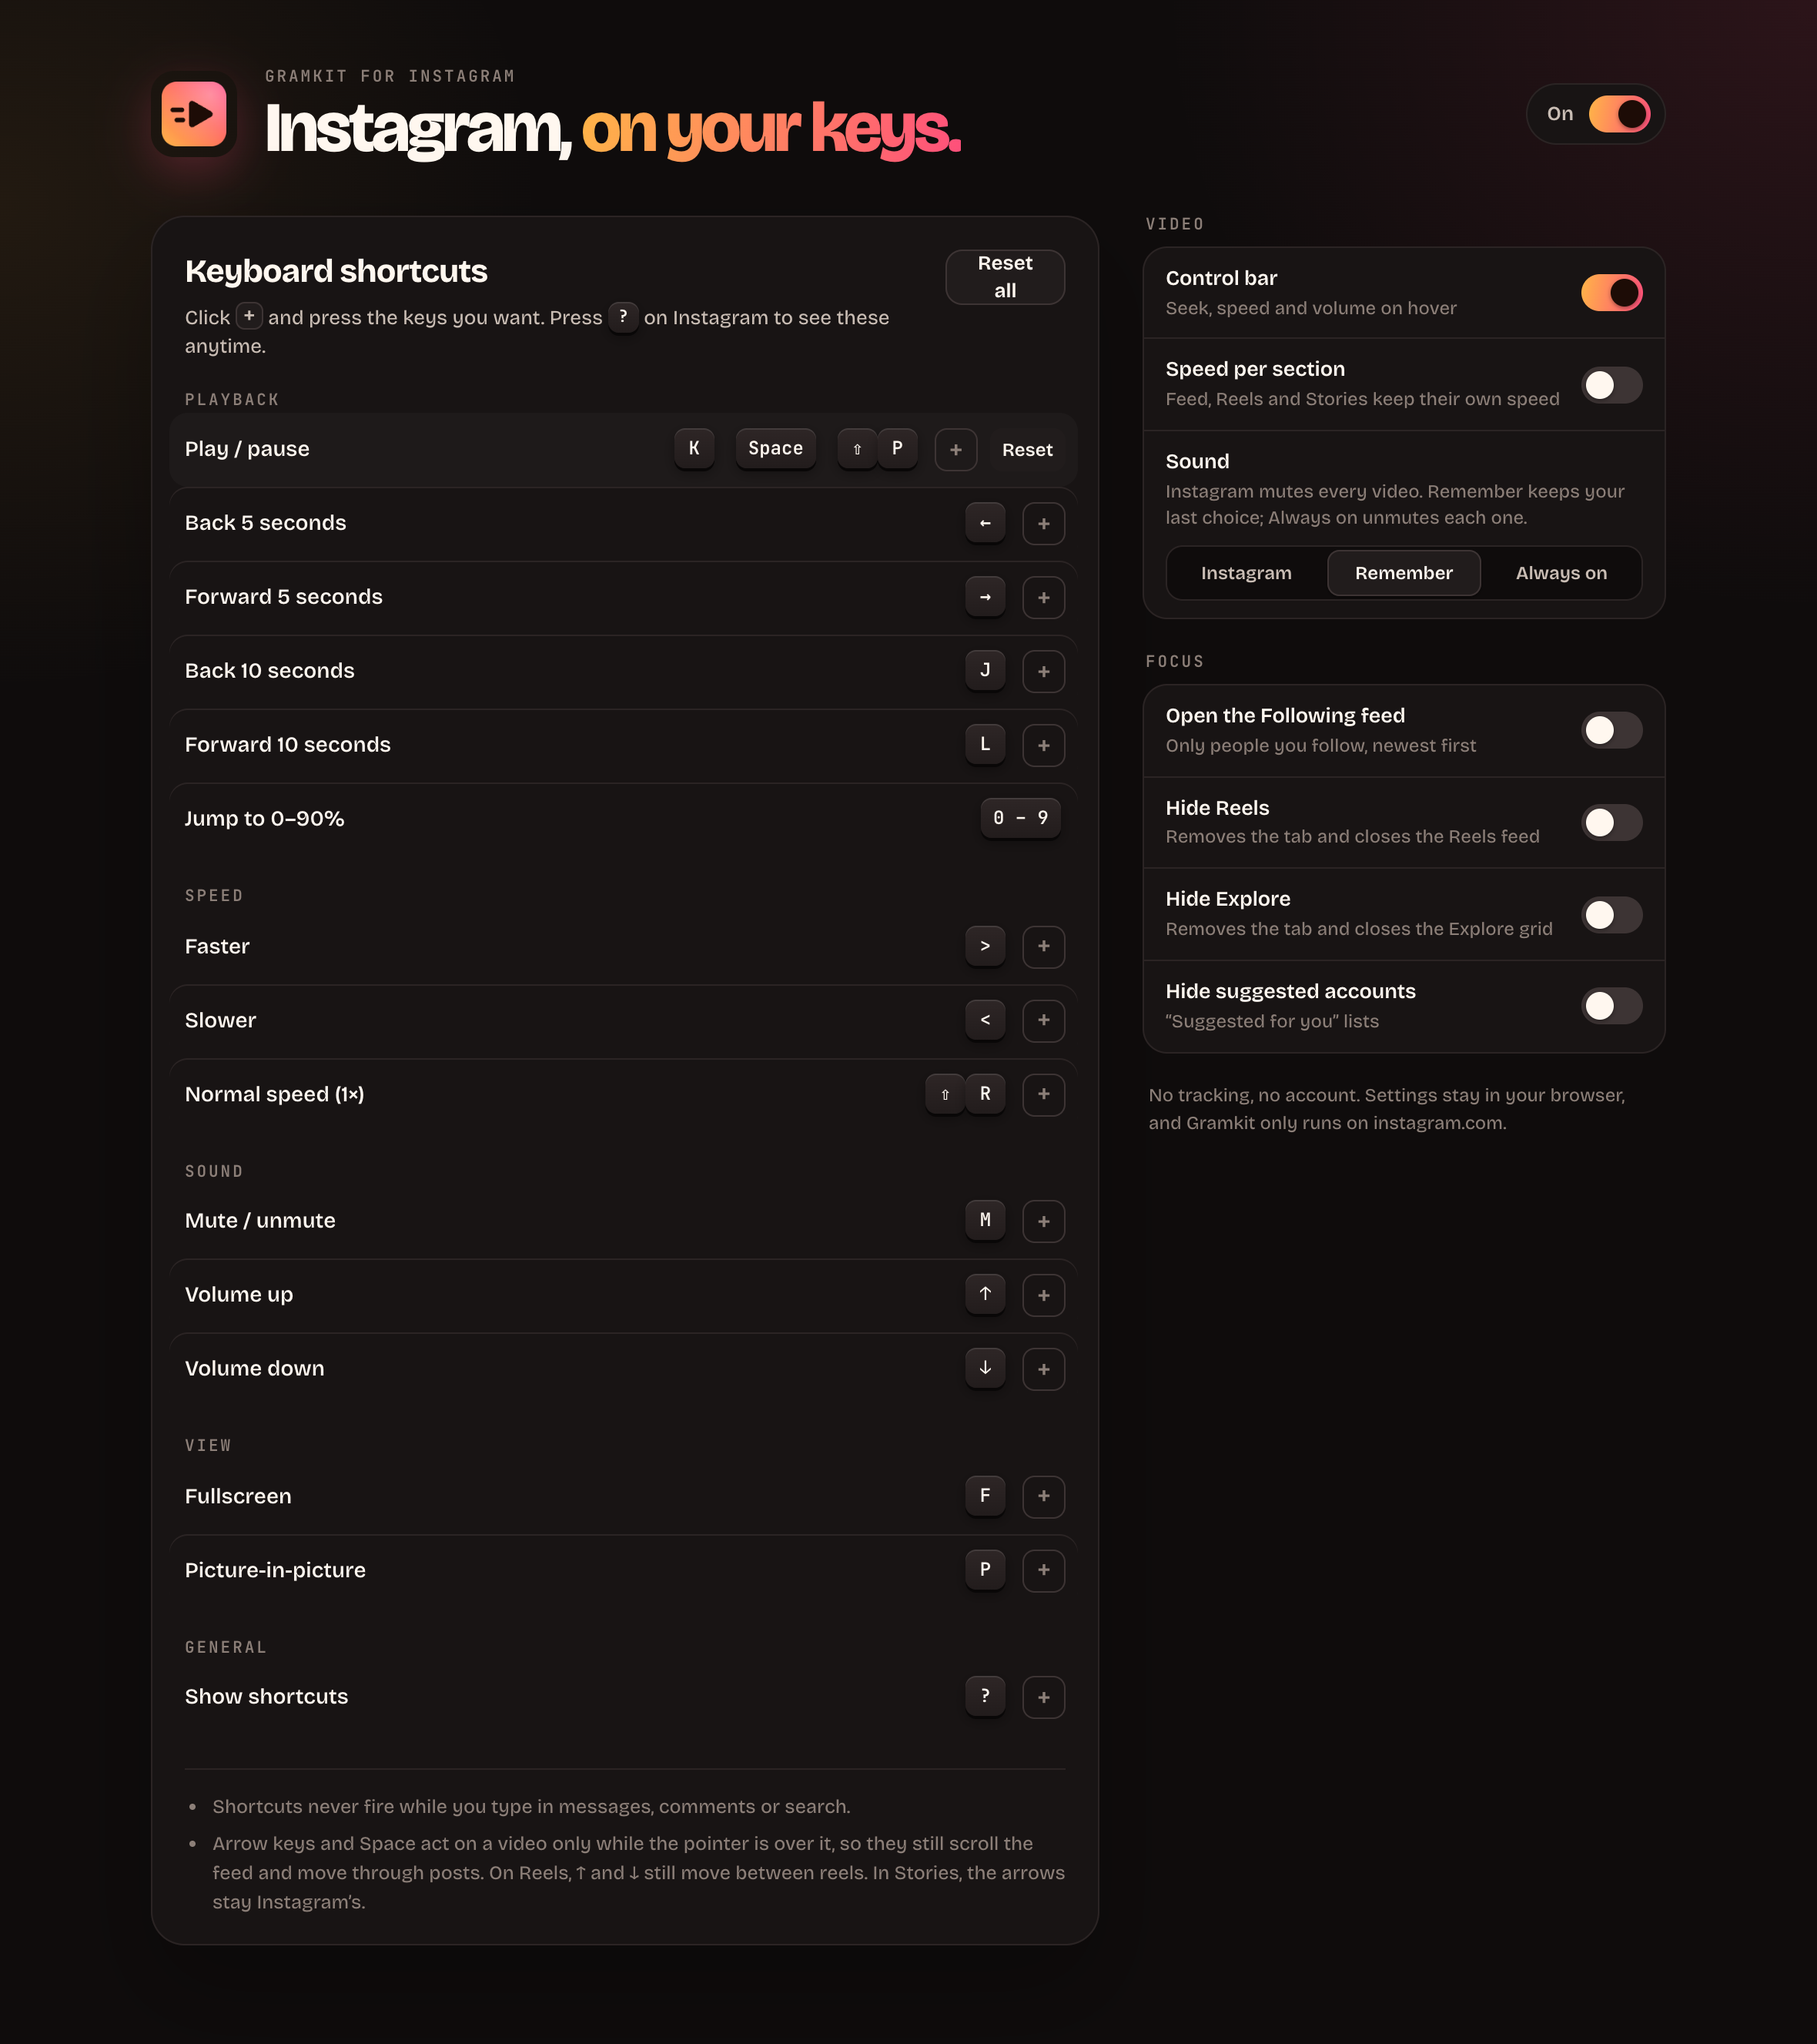
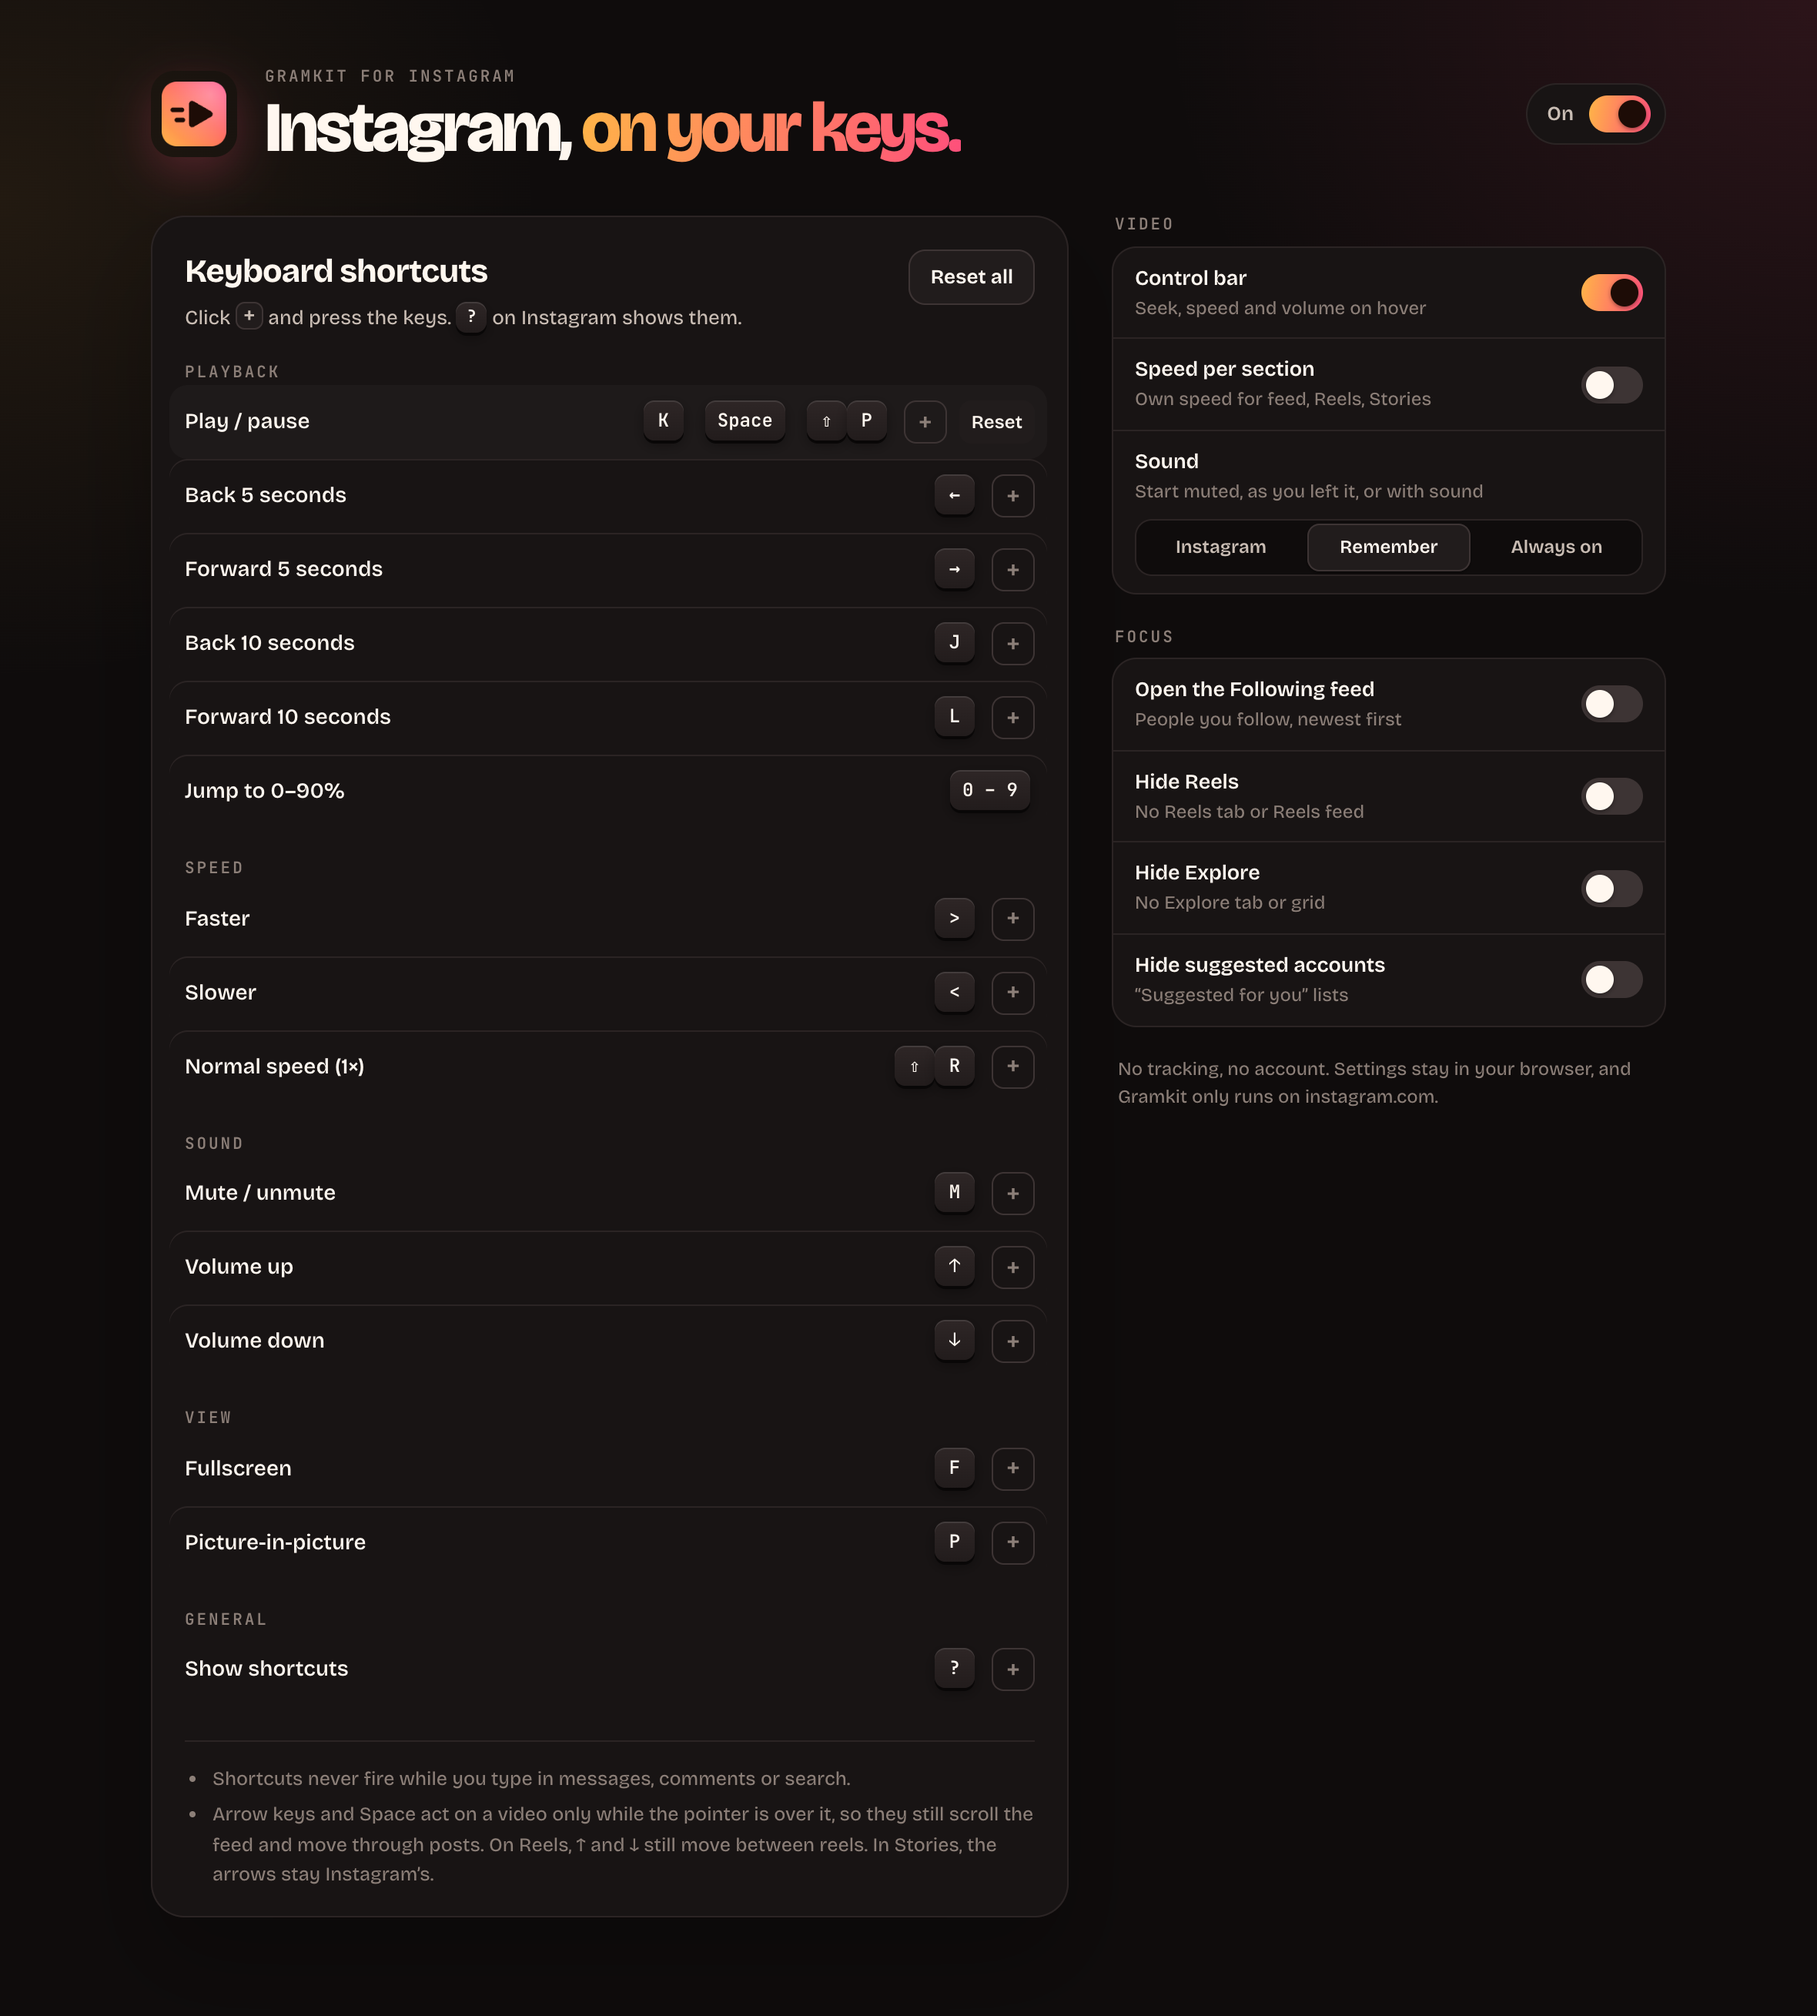
Fit setting descriptions on one line in the popup and options page

diff --git a/src/shared/ui.ts b/src/shared/ui.ts
@@ -11,13 +11,13 @@ type Toggle = { key: keyof Settings; title: string; sub: string };
 
 const VIDEO_TOGGLES: Toggle[] = [
   { key: 'controls', title: 'Control bar', sub: 'Seek, speed and volume on hover' },
-  { key: 'speedPerSection', title: 'Speed per section', sub: 'Feed, Reels and Stories keep their own speed' },
+  { key: 'speedPerSection', title: 'Speed per section', sub: 'Own speed for feed, Reels, Stories' },
 ];
 
 const FOCUS_TOGGLES: Toggle[] = [
-  { key: 'followingFeed', title: 'Open the Following feed', sub: 'Only people you follow, newest first' },
-  { key: 'hideReels', title: 'Hide Reels', sub: 'Removes the tab and closes the Reels feed' },
-  { key: 'hideExplore', title: 'Hide Explore', sub: 'Removes the tab and closes the Explore grid' },
+  { key: 'followingFeed', title: 'Open the Following feed', sub: 'People you follow, newest first' },
+  { key: 'hideReels', title: 'Hide Reels', sub: 'No Reels tab or Reels feed' },
+  { key: 'hideExplore', title: 'Hide Explore', sub: 'No Explore tab or grid' },
   { key: 'hideSuggestions', title: 'Hide suggested accounts', sub: '“Suggested for you” lists' },
 ];
 
@@ -44,7 +44,7 @@ function toggleRow({ key, title, sub }: Toggle): HTMLLabelElement {
 function soundRow(): HTMLDivElement {
   const row = document.createElement('div');
   row.className = 'row stack';
-  row.innerHTML = `<span class="row-title">Sound</span><span class="row-sub">Instagram mutes every video. Remember keeps your last choice; Always on unmutes each one.</span><div class="seg" role="radiogroup" aria-label="Sound"></div>`;
+  row.innerHTML = `<span class="row-title">Sound</span><span class="row-sub">Start muted, as you left it, or with sound</span><div class="seg" role="radiogroup" aria-label="Sound"></div>`;
   const seg = row.querySelector('.seg')!;
   for (const { value, label } of AUDIO_MODES) {
     const option = document.createElement('label');

diff --git a/src/static/options/options.html b/src/static/options/options.html
@@ -27,7 +27,7 @@
         <div class="panel-head">
           <div>
             <h2 id="shortcuts-title">Keyboard shortcuts</h2>
-            <p class="lede">Click <span class="inline-add">+</span> and press the keys you want. Press <kbd>?</kbd> on Instagram to see these anytime.</p>
+            <p class="lede">Click <span class="inline-add">+</span> and press the keys. <kbd>?</kbd> on Instagram shows them.</p>
           </div>
           <button class="btn" id="reset-all" type="button">Reset all</button>
         </div>

diff --git a/src/static/ui.css b/src/static/ui.css
@@ -246,6 +246,7 @@ kbd {
   box-shadow: inset 0 0 0 1px var(--line-strong);
   font-size: 13px;
   font-weight: 650;
+  white-space: nowrap;
   cursor: pointer;
   transition: transform 0.12s var(--ease), filter 0.15s var(--ease), background 0.15s var(--ease);
 }

diff --git a/src/static/options/options.css b/src/static/options/options.css
@@ -66,7 +66,7 @@ body {
 
 .layout {
   display: grid;
-  grid-template-columns: minmax(0, 1fr) 340px;
+  grid-template-columns: minmax(0, 1fr) 360px;
   gap: 28px;
   margin-top: 36px;
 }
